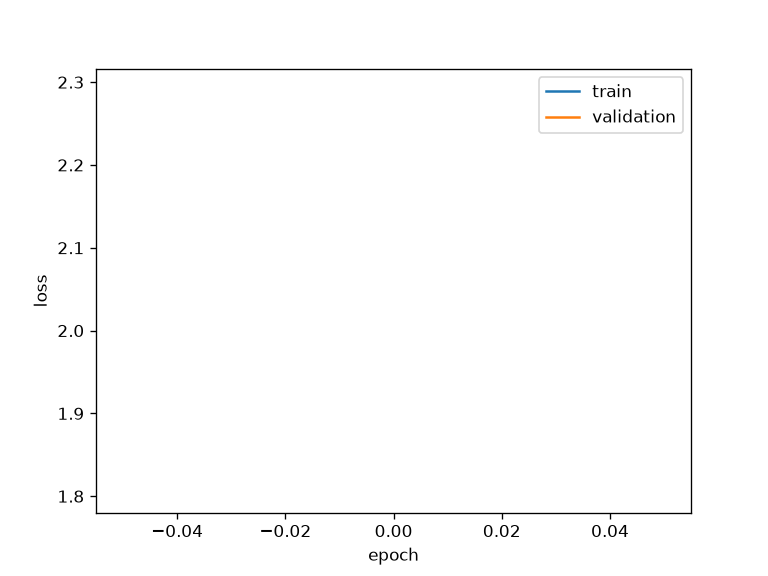
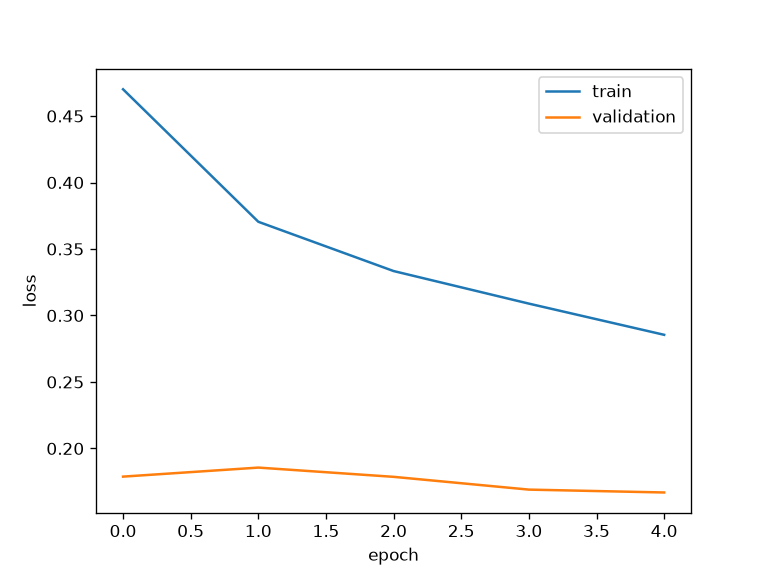
Hook data augmentation into the 4-GPU training script
Add src/training.py (multi-GPU, data kept on the GPUs) and the helpers it
needs in src/dataset.py: windows, device_tensors and a GPU batch augment
(random loudness, white noise, frequency/time masking).

Each epoch trains on every original song plus one randomly picked
precomputed augmented version (pitch, speed, compressed, telephone,
background noise). CustomDataset gains augmentation="all", a window
option and pick_augmentations(); duplicate entries in the augmented
pickle are counted once. --no-aug trains on the original songs only as
a baseline and saves to *_noaug outputs.

Results on one RTX 3070, 5 epochs (test: 52 songs, 109 drops):
  augmented run 2: 81% drops warned, 3.8 s ahead, 12.0 false alarms/h
  no augmentation: 83% drops warned, 4.7 s ahead, 14.5 false alarms/h
Without augmentation validation loss rises after epoch 0 (overfitting);
with it validation loss keeps falling through epoch 4.

diff --git a/src/training.py b/src/training.py
@@ -1,0 +1,234 @@
+"""Train the drop detector: is a drop coming within the next 5 seconds?
+
+Usage: python src/training.py [--no-aug]
+Uses every GPU: the script starts itself once per GPU (with torchrun), and each
+copy trains on its share of every batch. The songs are kept on the GPUs, so the
+CPU does almost nothing.
+
+The model looks at the last 60 s of a song and says how far away the next drop is
+(11 classes: no drop within 5 s, or which half second it is in). We use it as a
+warning: warn when P(no drop) is below a threshold, and keep the warning on for 2 s.
+The threshold is picked on the validation songs: warn about as many drops as
+possible with at most 15 false alarms per hour.
+
+Augmentation: every epoch trains on each original song plus one randomly picked
+precomputed version of it (pitch, speed, compression, telephone or background
+noise, from songs_10fps_augmented.pkl), and every batch gets a random loudness
+change, a little noise and masked-out bits (dataset.augment). --no-aug turns
+all of that off (original songs only), as a baseline; that run saves to
+outputs/drop_detector_rune_noaug.pt and outputs/training_noaug.png instead.
+
+Saves the best model to outputs/drop_detector_rune.pt and the loss curves to outputs/training.png,
+then prints how well it warns about the drops in the test songs.
+"""
+import os
+import sys
+
+import matplotlib
+import numpy as np
+import torch
+import torch.distributed as dist
+import torch.nn as nn
+from torch.nn.parallel import DistributedDataParallel
+
+from constants import FPS, ROOT_DIR
+from dataset import N_CLASSES, CustomDataset, augment, windows
+
+# Start one copy of this script per GPU. torchrun gives each copy its GPU number.
+if "LOCAL_RANK" not in os.environ:
+    os.execvp(sys.executable, [sys.executable, "-m", "torch.distributed.run", "--standalone",
+                               f"--nproc-per-node={torch.cuda.device_count()}", *sys.argv])
+
+matplotlib.use("Agg")
+import matplotlib.pyplot as plt
+
+AUGMENT = "--no-aug" not in sys.argv
+SUFFIX = "" if AUGMENT else "_noaug"
+CHECKPOINT_PATH = ROOT_DIR / "outputs" / f"drop_detector_rune{SUFFIX}.pt"
+TRAIN_IMG_PATH = ROOT_DIR / "outputs" / f"training{SUFFIX}.png"
+EPOCHS = 5
+WINDOW = 600 # frames the model sees (60 s)
+BATCH = 512 # windows per training step, split over the GPUs
+LR = 4e-4
+STRIDE = 3 # training keeps 1 in 3 "no drop" windows (all windows near a drop are kept)
+HOLD = 2 * FPS # keep a warning on for 2 s (20 frames), so it does not flicker on and off
+MAX_FALSE_ALARMS = 15 # per hour, on the validation songs
+THRESHOLDS = [0.0, *np.geomspace(1e-4, 0.99, 40)] # tried each epoch; 0 = never warn
+
+dist.init_process_group("nccl")
+rank = dist.get_rank() # which GPU this copy uses: 0, 1, 2 or 3
+world = dist.get_world_size() # number of GPUs
+device = torch.device("cuda", rank)
+torch.cuda.set_device(device)
+main = rank == 0 # only the copy on GPU 0 prints and saves files
+
+
+class NeuralNetwork(nn.Module):
+    def __init__(self):
+        super().__init__()
+        self.inp = nn.Linear(128, 128) # Convert mel bins to 128 features
+        self.pos = nn.Parameter(torch.zeros(1, WINDOW, 128)) # a learned position for each of the 600 frames (60 s)
+        layer = nn.TransformerEncoderLayer(d_model=128, nhead=8, dim_feedforward=512, dropout=0.3,
+                                           batch_first=True, norm_first=True)
+        self.trans = nn.TransformerEncoder(layer, num_layers=1, enable_nested_tensor=False) # one attention layer
+        self.linear = nn.Linear(128, N_CLASSES) # Fully connected layer
+
+    def forward(self, x):
+        x = self.inp(x) + self.pos
+        x = self.trans(x)
+        return self.linear(x[:, -1]) # predict from the newest frame
+
+
+def batches(data, shuffle):
+    """This GPU's share of the windows, as (x, y) minibatches. Every GPU gets
+    the same number of batches (DistributedDataParallel needs that)."""
+    frames, starts, labels = data
+    if shuffle:
+        order = torch.randperm(len(starts), device=device) # same order on every GPU: same seed
+    else:
+        order = torch.arange(len(starts), device=device)
+    mine = order[rank::world][:len(order) // world] # every world-th window, starting at this GPU's number
+    for i in range(0, len(mine), BATCH // world):
+        b = mine[i:i + BATCH // world]
+        yield windows(frames, starts[b], WINDOW), labels[b]
+
+
+def evaluate(data):
+    """Mean loss, and P(no drop) for every window of a split, in order.
+    Each GPU does one quarter of the windows."""
+    frames, starts, labels = data
+    quarter = (len(starts) + world - 1) // world
+    first, last = rank * quarter, min((rank + 1) * quarter, len(starts))
+    model.eval()
+    total, p_no_drop = 0.0, []
+    with torch.no_grad(), torch.autocast("cuda", dtype=torch.float16):
+        for i in range(first, last, 1024):
+            j = min(i + 1024, last)
+            out = model(windows(frames, starts[i:j], WINDOW)).float()
+            total += loss_fn(out, labels[i:j]).item() * (j - i)
+            p_no_drop.append(out.softmax(1)[:, 0].cpu().numpy())
+    model.train()
+    shares = [None] * world
+    dist.all_gather_object(shares, (total, np.concatenate(p_no_drop))) # put the GPUs' shares together
+    return sum(s[0] for s in shares) / len(starts), np.concatenate([s[1] for s in shares])
+
+
+def hold(warn, songs):
+    """Keep each warning on for HOLD more frames (but not into the next song)."""
+    held = warn.copy()
+    for k in range(1, HOLD + 1):
+        held[k:] |= warn[:-k] & (songs[k:] == songs[:-k])
+    return held
+
+
+def runs(mask):
+    """Where each stretch of True values in mask starts and ends: [(start, end), ...]."""
+    change = np.diff(np.concatenate([[0], mask.astype(int), [0]]))
+    return zip(np.flatnonzero(change == 1), np.flatnonzero(change == -1))
+
+
+def alarm_report(warn, drop, songs):
+    """How the warnings work as an alarm. A drop counts as warned if the warning is on
+    at some point in the 5 s before it. A warning that is on without any drop coming
+    within 5 s is a false alarm.
+    Returns (share of drops warned, median seconds of warning, false alarms per hour)."""
+    warned, ahead, false_alarms, n_drops = 0, [], 0, 0
+    for s in np.unique(songs):
+        w, d = warn[songs == s], drop[songs == s]
+        for a, b in runs(d): # the 5 s before one drop; window b - 1 ends right on the drop
+            n_drops += 1
+            on = np.flatnonzero(w[a:b])
+            if len(on) > 0:
+                warned += 1
+                ahead.append((b - 1 - a - on[0]) / FPS)
+        for a, b in runs(w): # one warning, from when it turns on until it turns off
+            if not d[a:b].any():
+                false_alarms += 1
+    hours = len(warn) / FPS / 3600
+    return warned / n_drops, np.median(ahead) if ahead else 0.0, false_alarms / hours
+
+
+def choose_threshold(p_no_drop, drop, songs):
+    """The threshold that warns about the most drops with at most MAX_FALSE_ALARMS per hour.
+    Returns (threshold, (share of drops warned, median seconds of warning, false alarms per hour))."""
+    results = [(th, alarm_report(hold(p_no_drop < th, songs), drop, songs)) for th in THRESHOLDS]
+    allowed = [r for r in results if r[1][2] <= MAX_FALSE_ALARMS]
+    return max(allowed, key=lambda r: r[1][0])
+
+
+torch.manual_seed(42) # same start weights on every GPU
+# Training holds every augmented version on the GPU; each epoch picks which ones to use.
+train_ds = CustomDataset("train", stride=STRIDE, window=WINDOW, augmentation="all" if AUGMENT else False)
+train_all = train_ds.device_tensors(device)
+# Validation and test use every window of the original songs, like a real song: few windows are near a drop.
+val_ds = CustomDataset("val", stride=1, window=WINDOW)
+test_ds = CustomDataset("test", stride=1, window=WINDOW)
+val = val_ds.device_tensors(device)
+test = test_ds.device_tensors(device)
+val_drop = val[2].cpu().numpy() > 0 # is a drop coming within 5 s?
+test_drop = test[2].cpu().numpy() > 0
+val_songs = val_ds.index[:, 0] # which song each window is from
+test_songs = test_ds.index[:, 0]
+if main:
+    print(f"augmentation {'on' if AUGMENT else 'off'}: train {len(train_ds)} windows in {len(train_ds.mels)} song versions"
+          f"{' (original + 1 of 7 augmented per song used each epoch)' if AUGMENT else ''}, "
+          f"val {len(val[2])}, test {len(test[2])} windows on {world} GPUs", flush=True)
+
+model = NeuralNetwork().to(device) # alt dette er taget fra slides uge 2
+net = DistributedDataParallel(model) # averages the gradients over the GPUs
+optimizer = torch.optim.AdamW(model.parameters(), lr=LR, weight_decay=0.1)
+scaler = torch.amp.GradScaler() # fp16 needs the loss scaled up so small gradients don't round to 0
+loss_fn = nn.CrossEntropyLoss()
+
+train_losses, val_losses, best_warned, threshold = [], [], -1.0, None
+for epoch in range(EPOCHS):
+    torch.manual_seed(epoch) # so every GPU shuffles the same way
+    # This epoch: every original song plus one random augmented version of it (same pick on every GPU).
+    if AUGMENT:
+        keep = torch.from_numpy(train_ds.pick_augmentations(np.random.default_rng(epoch))).to(device)
+        train = (train_all[0], train_all[1][keep], train_all[2][keep])
+    else:
+        train = train_all
+    running = torch.zeros((), device=device)
+    for x_minibatch, y_minibatch in batches(train, shuffle=True):
+        if AUGMENT:
+            x_minibatch = augment(x_minibatch) # random loudness and masked-out bits, so the model can't memorize songs
+        with torch.autocast("cuda", dtype=torch.float16): # fp16: about twice as fast
+            y_pred = net(x_minibatch)
+            loss = loss_fn(y_pred, y_minibatch)
+
+        net.zero_grad()
+        scaler.scale(loss).backward()
+        scaler.step(optimizer)
+        scaler.update()
+        running += loss.detach() * len(y_minibatch) # no .item() here: it would make the CPU wait for the GPU
+
+    dist.all_reduce(running) # add up the GPUs
+    train_losses.append(running.item() / len(train[2]))
+    val_loss, p_no_drop = evaluate(val)
+    val_losses.append(val_loss)
+    if main:
+        epoch_threshold, (warned, ahead, false_alarms) = choose_threshold(p_no_drop, val_drop, val_songs)
+        if warned > best_warned:
+            best_warned, threshold = warned, epoch_threshold
+            torch.save(model.state_dict(), CHECKPOINT_PATH)
+        print(f"Epoch {epoch}, Loss: {train_losses[-1]:.4f}, Val loss: {val_loss:.4f}, Val: {warned:.0%} of drops warned, "
+              f"median {ahead:.1f} s ahead, {false_alarms:.1f} false alarms per hour, threshold {epoch_threshold:.2g}", flush=True)
+
+if main:
+    plt.plot(train_losses, label="train")
+    plt.plot(val_losses, label="validation")
+    plt.xlabel("epoch")
+    plt.ylabel("loss")
+    plt.legend()
+    plt.savefig(TRAIN_IMG_PATH, dpi=120)
+
+dist.barrier() # wait until GPU 0 has saved the best model
+model.load_state_dict(torch.load(CHECKPOINT_PATH, map_location=device))
+test_loss, p_no_drop = evaluate(test)
+if main:
+    warn = hold(p_no_drop < threshold, test_songs)
+    warned, ahead, false_alarms = alarm_report(warn, test_drop, test_songs)
+    print(f"Test loss {test_loss:.4f}, threshold {threshold:.2g}: {warned:.0%} of drops warned, "
+          f"median {ahead:.1f} s ahead, {false_alarms:.1f} false alarms per hour")
+dist.destroy_process_group()

diff --git a/src/dataset.py b/src/dataset.py
@@ -13,7 +13,7 @@ import pickle
 import numpy as np
 import torch
 from torch.utils.data import Dataset
-from augmenter import Augmenter
+from augmenter import Augmenter, load_pickle
 from constants import *
 
 WINDOW = 300                  # frames per sample (30 s)
@@ -40,25 +40,42 @@ class CustomDataset(Dataset):
     stride: take a window ending at every `stride`-th frame. Windows near a
     drop (labels 1-10) are always all kept, so a larger stride only thins out
     the "no drop" windows.
-    augmentation: if True, include augmented versions of the songs.
+    augmentation: False for the original songs only; True to add one random
+    augmented copy per song (fixed for the dataset's lifetime); "all" to add
+    every precomputed augmented version (see pick_augmentations).
+    window: frames per sample.
     """
 
-    def __init__(self, split="train", stride=1, path=PKL, aug_path=AUG_PKL, seed=42, augmentation=False):
+    def __init__(self, split="train", stride=1, path=PKL, aug_path=AUG_PKL, seed=42, augmentation=False,
+                 window=WINDOW):
         with open(path, "rb") as f:
             songs = [s for s in pickle.load(f) if s["split"] == split]
         if not songs:
             raise ValueError(f"no songs in split {split!r}")
 
-        if augmentation:
+        # Only songs of this split are augmented, so nothing leaks across splits.
+        if augmentation == "all":
+            # Every precomputed version of every song in this split, next to the originals.
+            # Keyed by (name, augmentation) so duplicate entries in the pickle count once.
+            names = {s["name"] for s in songs}
+            extra = {(a["name"], a["augmentation"]): a for a in load_pickle(aug_path) if a["name"] in names}
+            songs = songs + [extra[k] for k in sorted(extra)]
+        elif augmentation:
             # One random augmented copy per song, added next to the originals.
-            # Only songs of this split are augmented, so nothing leaks across splits.
             augmenter = Augmenter(augmented_path=aug_path, seed=seed)
             songs = songs + [augmenter.augment(s) for s in songs]
 
+        self.window = window
+        # Per song: which augmentation it is ("original" for none) and the index of its original.
+        self.kinds = [s.get("augmentation", "original") for s in songs]
+        first = {}
+        for i, s in enumerate(songs):
+            first.setdefault(s["name"], i)
+        self.base = np.array([first[s["name"]] for s in songs])
         self.names = [s["name"] for s in songs]
-        # Pad WINDOW - 1 silent frames in front, so drops in the first 30 s
+        # Pad window - 1 silent frames in front, so drops near the start
         # still get full-length windows.
-        pad = np.full((WINDOW - 1, songs[0]["mel"].shape[1]), PAD_DB, dtype=np.float16)
+        pad = np.full((window - 1, songs[0]["mel"].shape[1]), PAD_DB, dtype=np.float16)
         self.mels = [np.concatenate([pad, s["mel"]]) for s in songs]
 
         index, labels = [], []
@@ -76,16 +93,65 @@ class CustomDataset(Dataset):
 
     def __getitem__(self, idx):
         song, end = self.index[idx]
-        # Padded row end + WINDOW - 1 is song frame `end`.
-        x = self.mels[song][end:end + WINDOW].astype(np.float32)
+        # Padded row end + window - 1 is song frame `end`.
+        x = self.mels[song][end:end + self.window].astype(np.float32)
         x = (x + 40.0) / 40.0                      # dB in [-80, 0] -> about [-1, 1]
         return torch.from_numpy(x), torch.tensor(self.labels[idx])
+
+    def pick_augmentations(self, rng):
+        """For a dataset built with augmentation="all": a mask over the windows that
+        keeps every original song plus one randomly chosen augmented version of it.
+        Call once per epoch with a numpy Generator for a fresh choice each time."""
+        kinds = np.array(self.kinds)
+        song_keep = kinds == "original"
+        for b in np.unique(self.base):
+            versions = np.flatnonzero((self.base == b) & ~song_keep)
+            if len(versions):
+                song_keep[rng.choice(versions)] = True
+        return song_keep[self.index[:, 0]]
+
+    def device_tensors(self, device):
+        """The whole split on one device, for training without a DataLoader:
+        (frames [all padded songs end to end, 128] float16, starts [n] first row of each
+        window in frames, labels [n]). Cut windows out with windows(frames, starts)."""
+        offsets = np.cumsum([0] + [len(m) for m in self.mels[:-1]])
+        frames = torch.from_numpy(np.concatenate(self.mels)).to(device)
+        starts = torch.from_numpy(offsets[self.index[:, 0]] + self.index[:, 1]).to(device)
+        labels = torch.from_numpy(self.labels).to(device)
+        return frames, starts, labels
 
     def class_weights(self):
         """Inverse-frequency weights for nn.CrossEntropyLoss(weight=...)."""
         counts = np.bincount(self.labels, minlength=N_CLASSES).astype(np.float64)
         w = counts.sum() / (N_CLASSES * np.maximum(counts, 1))
         return torch.tensor(w, dtype=torch.float32)
+
+def windows(frames, starts, window=WINDOW):
+    """Cut [len(starts), window, 128] normalized windows out of device_tensors' frames."""
+    rows = starts[:, None] + torch.arange(window, device=starts.device)
+    return (frames[rows].float() + 40.0) / 40.0   # dB in [-80, 0] -> about [-1, 1], like __getitem__
+
+
+def augment(x, gain_db=6.0, noise_db=0.5, freq_mask=16, time_mask=20):
+    """Cheap on-the-fly augmentation of a batch of normalized windows [B, T, F], on its device:
+    a random loudness change of up to +-gain_db per window (like Augmenter's volume_up/down),
+    a little white noise (like Augmenter's white_noise, noise_db std), and one band of up to
+    freq_mask mel bins plus one stretch of up to time_mask frames set to the window's mean
+    (SpecAugment-style masking)."""
+    b, t, f = x.shape
+    dev = x.device
+    x = x + (torch.rand(b, 1, 1, device=dev) * 2 - 1) * (gain_db / 40.0)
+    x = x + torch.randn_like(x) * (noise_db / 40.0)
+
+    def band(size, max_width):
+        width = torch.randint(0, max_width + 1, (b, 1), device=dev)
+        start = (torch.rand(b, 1, device=dev) * (size - width + 1)).long()
+        pos = torch.arange(size, device=dev)
+        return (pos >= start) & (pos < start + width)   # [b, size]
+
+    mask = band(f, freq_mask)[:, None, :] | band(t, time_mask)[:, :, None]
+    return torch.where(mask, x.mean((1, 2), keepdim=True), x)
+
 
 def test_augmentation():
     plain = CustomDataset(split="train", augmentation=False)
